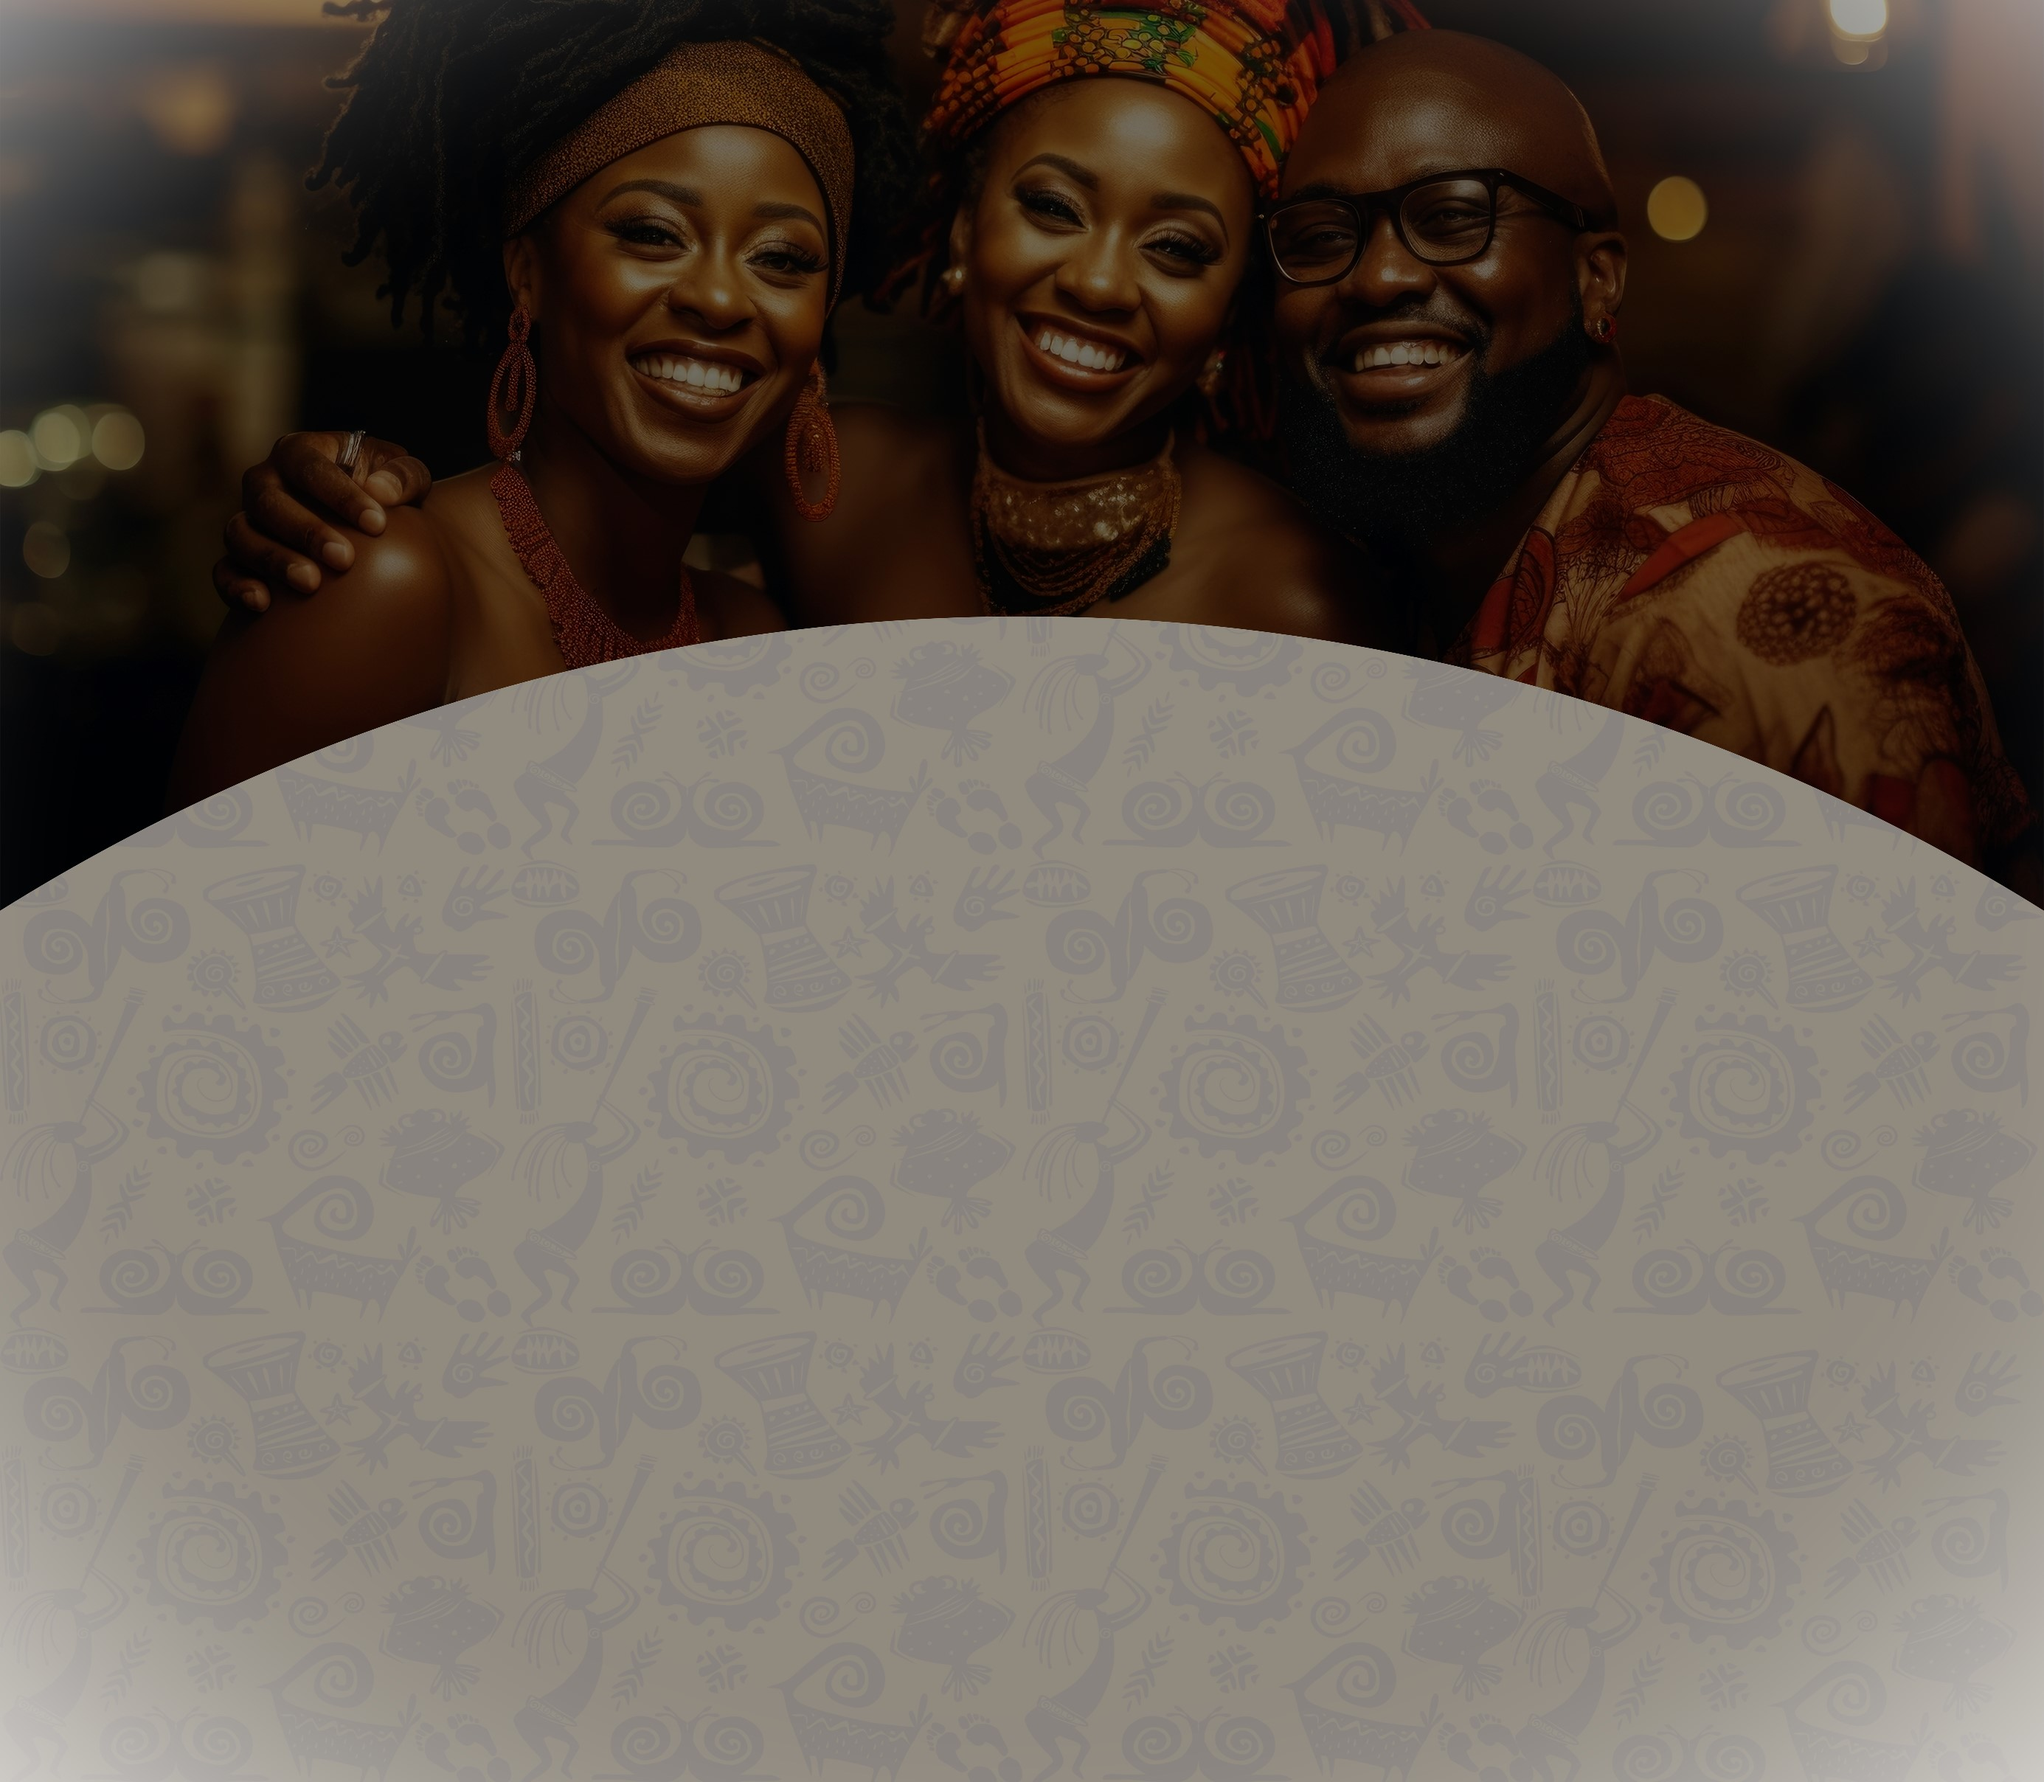
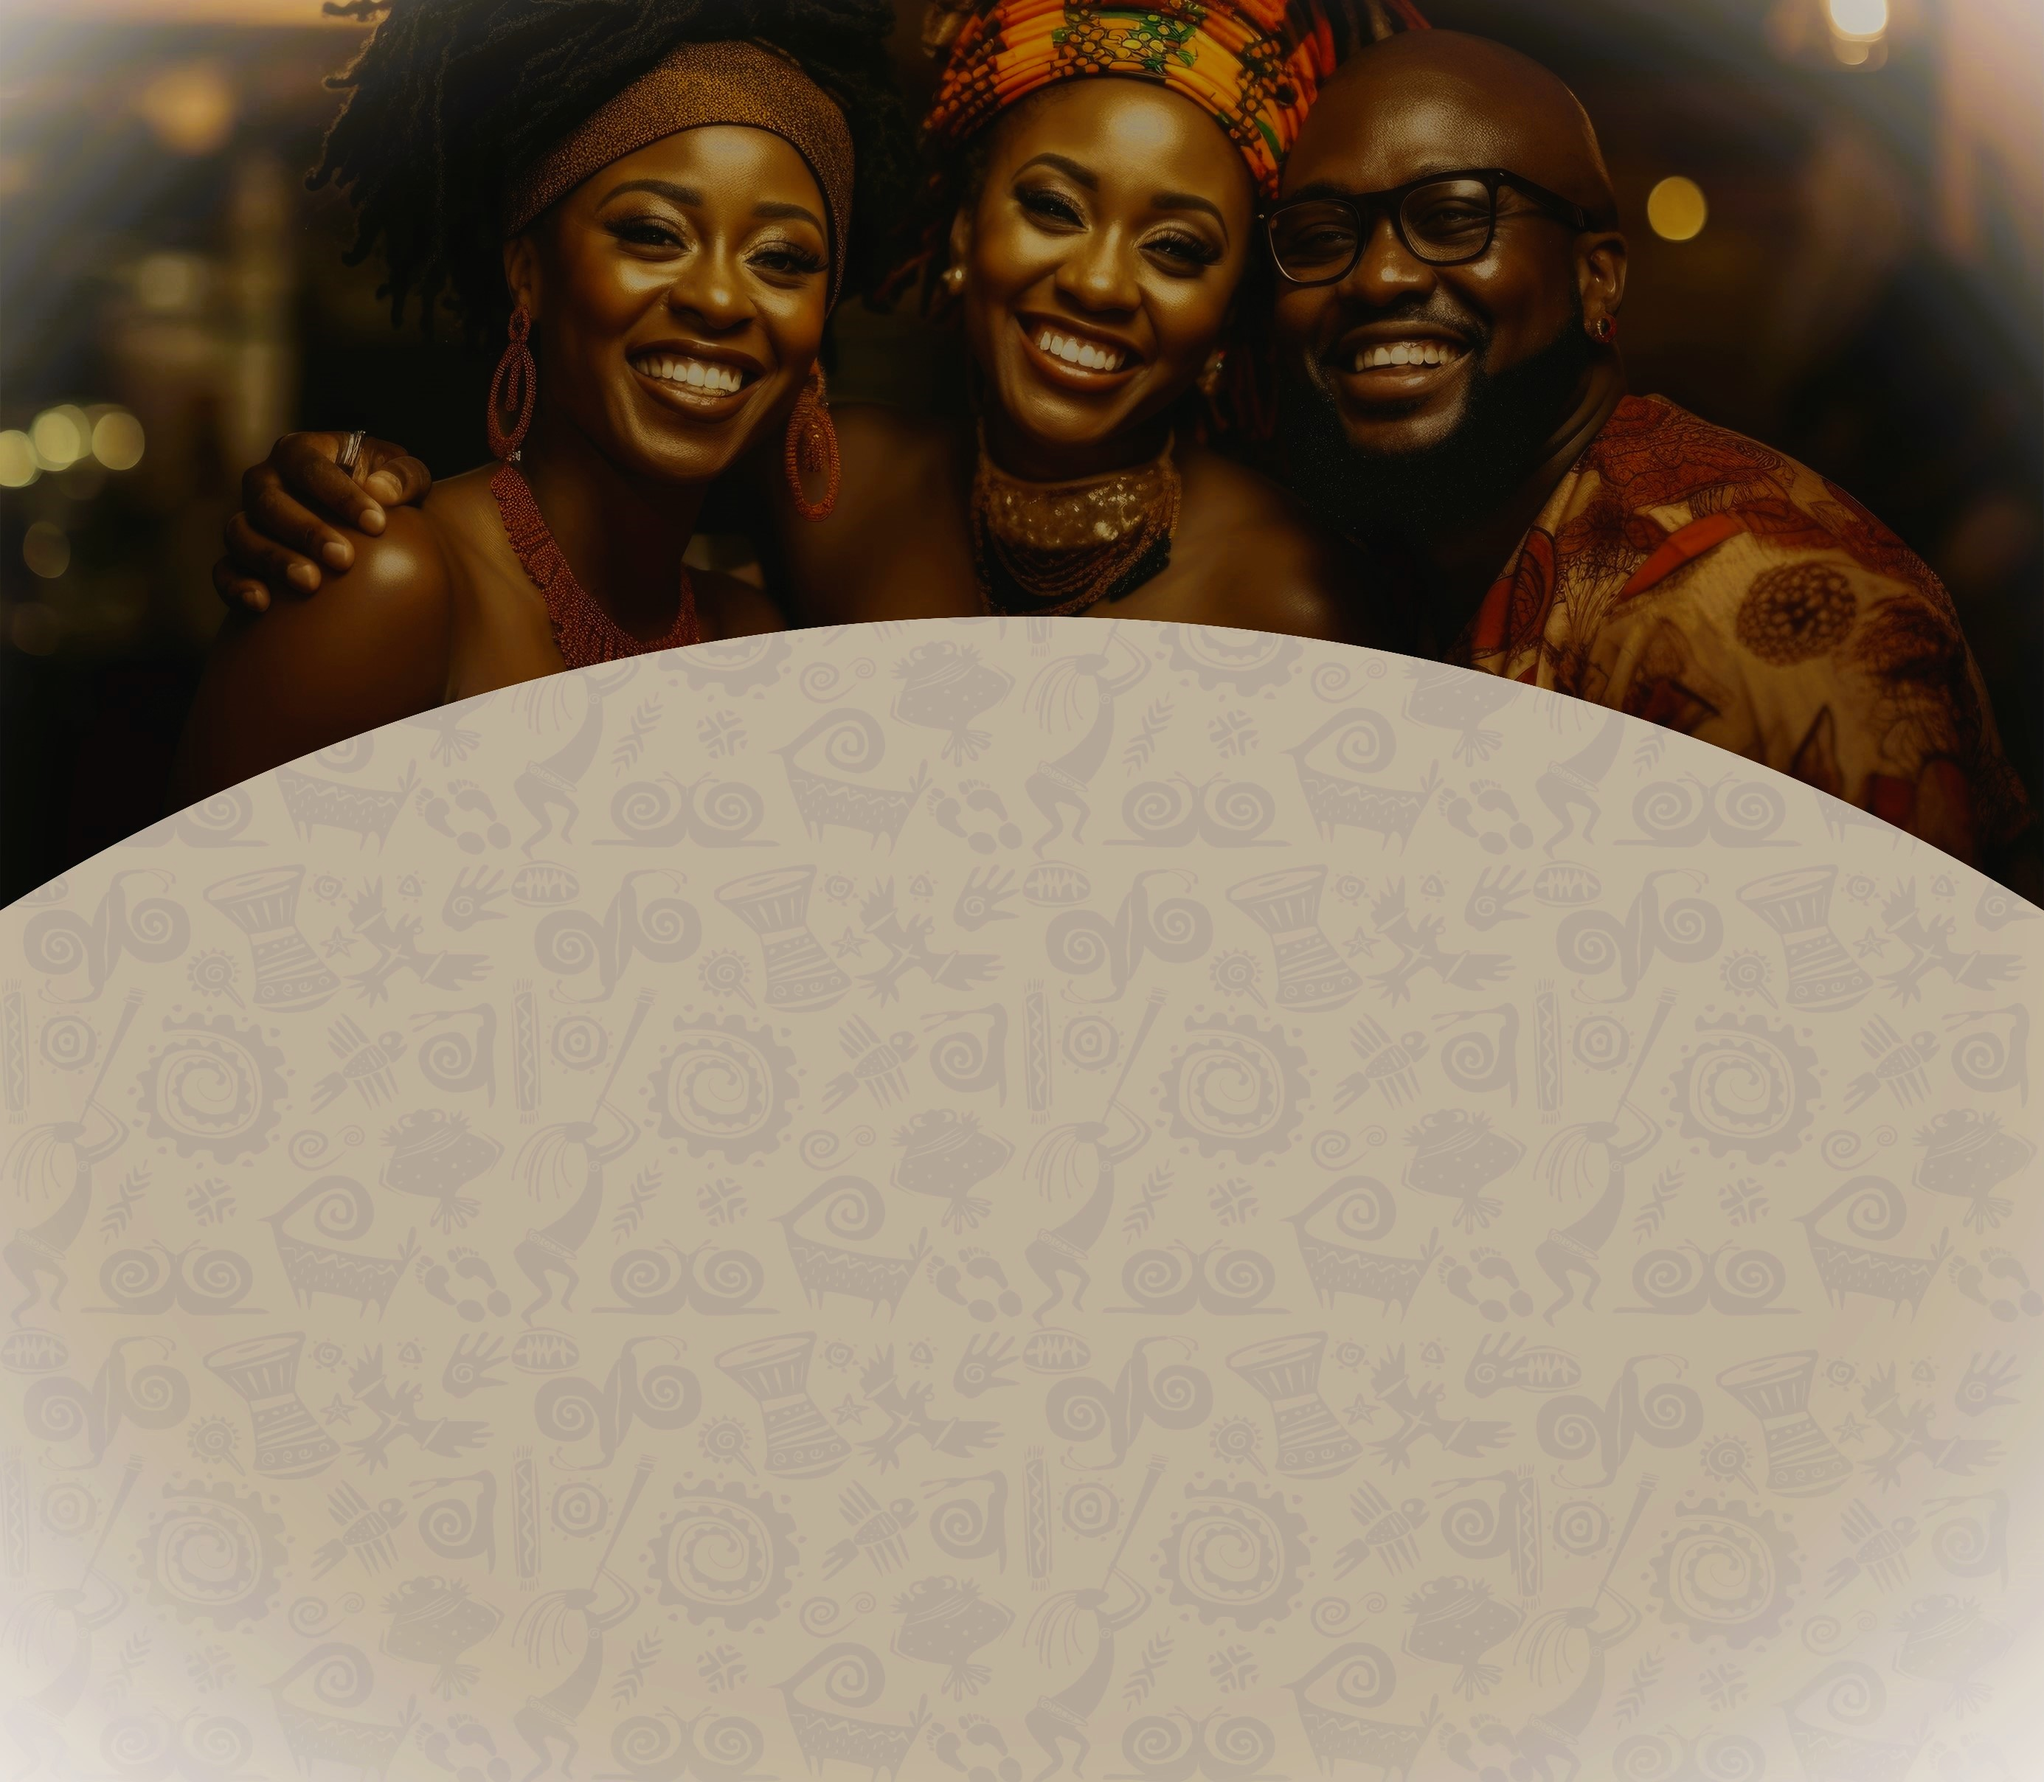
More Pages

diff --git a/index.html b/index.html
@@ -14,7 +14,7 @@
 <!-- Header Section -->
 
     <section id = "header">
-      <div class="header overlay">
+      <div class="headers overlay">
 
 
       <nav class="navbar navbar-expand-lg navbar-dark shadow-5-strong">
@@ -24,21 +24,21 @@
     </button>
     <a class="navbar-brand" href="#"><img src="img/CHAC.png" alt=""></a>
     <div class="collapse navbar-collapse " id="navbarTogglerDemo03">
-      <ul class="navbar-nav ms-auto mb-2 mb-lg-0">
+      <ul class="navbar-nav ms-auto mb-2 mb-lg-0" style="color: #000;">
         <li class="nav-item">
-          <a class="nav-link active" aria-current="page" href="#">About CHAC</a>
+          <a class="nav-link active" aria-current="page" href="#" style="color: #000;font-weight:bold;">About CHAC</a>
         </li>
         <li class="nav-item">
-          <a class="nav-link " aria-current="page" href="abstract.html">Abstracts</a>
+          <a class="nav-link " aria-current="page" href="abstract.html" style="color: #000;font-weight:bold;">Abstracts</a>
         </li>
         <li class="nav-item">
-          <a class="nav-link " aria-current="page" href="presenters.html">Presenters</a>
+          <a class="nav-link " aria-current="page" href="presenters.html"style="color: #000;font-weight:bold;">Presenters</a>
         </li>
         <li class="nav-item">
-          <a class="nav-link" aria-current="page" href="attendees.html">Attendees</a>
+          <a class="nav-link" aria-current="page" href="attendees.html" style="color: #000;font-weight:bold;">Attendees</a>
         </li>
         <li class="nav-item">
-          <a class="nav-link " aria-current="page" href="programs.html">Programs</a>
+          <a class="nav-link " aria-current="page" href="programs.html"style="color: #000;font-weight:bold;">Programs</a>
         </li>
       </ul>
       <form class="d-flex" role="search">
@@ -49,7 +49,7 @@
   </div>
 
 </nav>
-<img src="img/logo.png" class="header-logo" alt="">
+
       <!-- <h1 class="header-title">CHAC</h1> -->
       <h3 class="p-title">Climate & Health Africa Conference 2024</h3>
 
@@ -58,13 +58,13 @@
 
     </section>
 
-        <div class="alert alert-danger" role="alert">
+        <!-- <div class="alert alert-danger" role="alert" style="background-color: red;">
             <h4 class="alert-heading">ALERT:</h4>
             <p>Marketing and “market research” companies have been contacting CROI attendees. Disregard any correspondence from these groups. They are not affiliated with, or in any way approved by CROI.</p>
             <p>Note: as always CROI does not sell, rent, or share the names or contact details of attendees. Please report suspicious emails and websites to <a href="mailto:CROIinfo@iasusa.org">CROIinfo@iasusa.org</a>.</p>
             <hr>
             <p class="mb-0">Various misleading and fraudulent websites and emails offer “registration” and “hotel reservations” for CROI that need to be ignored. Traveller Point is one of them. All CROI information, including registration and hotel arrangements, is accessible through <a href="https://www.CROIconference.org" target="_blank">www.CROIconference.org</a> only.</p>
-        </div>
+        </div> -->
 
     <!-- Card Section -->
 
@@ -80,7 +80,7 @@
                   <h2>Abstract Submission</h2>
                   <p>Late-Breaking abstract submission is closed. Deadline was January 9, 2024</p>
 
-                  <button class="card-button btn btn-lg btn-block btn-outline-dark" type="button" style="background-color: #0C356A;color: #FFF0CE;">Register Now</button>
+                  <button class="card-button btn btn-lg btn-block btn-outline-dark" type="button" style="background-color: #E14D2A;color: #FFF0CE;">Register Now</button>
               </div>
             </div>
         </div>
@@ -93,7 +93,7 @@
                 <h2>CHAC Preliminary Program</h2>
                 <p>Updates are posted as they become available.</p>
 
-                <button class="card-button btn btn-lg btn-block btn-outline-dark" type="button" style="background-color: #0C356A;color: #FFF0CE;">View Program</button>
+                <button class="card-button btn btn-lg btn-block btn-outline-dark" type="button" style="background-color: #E14D2A;color: #FFF0CE;">View Program</button>
               </div>
           </div>
         </div>
@@ -106,7 +106,7 @@
                 <h2>Registration</h2>
                 <p>CHAC 2024 registration and application system is now open.</p>
 
-                <button class="card-button btn btn-lg btn-block btn-outline-dark" type="button" style="background-color: #0C356A;color: #FFF0CE;">Register Now</button>
+                <button class="card-button btn btn-lg btn-block btn-outline-dark" type="button" style="background-color: #E14D2A;color: #FFF0CE;">Register Now</button>
               </div>
           </div>
         </div>
@@ -125,7 +125,7 @@
     <div class="col-md-6 mb-3" style="padding-right: 5%;">
       <div class="card" style="max-width: 540px;">
         <div class="row g-0">
-          <div class="col-md-4" style="background-color: #0C356A;">
+          <div class="col-md-4" style="background-color: #E14D2A;">
             <i class="news-icon fa-solid fa-calendar-days fa-3x"></i>
           </div>
           <div class="col-md-8">
@@ -142,7 +142,7 @@
     <div class="col-md-6 mb-3" style="padding-right: 5%;">
       <div class="card" style="max-width: 540px;">
         <div class="row g-0">
-          <div class="col-md-4" style="background-color: #0C356A;">
+          <div class="col-md-4" style="background-color: #E14D2A;">
             <i class="news-icon fa-solid fa-calendar-days fa-3x"></i>
           </div>
           <div class="col-md-8">
@@ -159,7 +159,7 @@
     <div class="col-md-6 mb-3" style="padding-right: 5%;">
       <div class="card" style="max-width: 540px;">
         <div class="row g-0">
-          <div class="col-md-4" style="background-color: #0C356A;">
+          <div class="col-md-4" style="background-color: #E14D2A;">
             <i class="news-icon fa-solid fa-calendar-days fa-3x"></i>
           </div>
           <div class="col-md-8">
@@ -176,7 +176,7 @@
     <div class="col-md-6 mb-3" style="padding-right: 5%;">
       <div class="card" style="">
         <div class="row g-0">
-          <div class="col-md-4" style="background-color: #0C356A;">
+          <div class="col-md-4" style="background-color: #E14D2A;">
             <i class="news-icon fa-solid fa-calendar-days fa-3x"></i>
           </div>
           <div class="col-md-8">

diff --git a/abstract.html b/abstract.html
@@ -111,13 +111,20 @@ Permission Requests: Permission to replicate or reproduce any part of a CROI abs
 
   <!-- Copyright -->
   <div class="text-center p-3" style="background-color: rgba(0, 0, 0, 0.2)">
-    © 2024 Copyright:
-    <a class="text-white" href="">CHAC</a>
+    
+    <a class="text-white" href=""></a>
   </div>
   <!-- Copyright -->
 
 </footer>
 <!-- Footer -->
+<section id = "footer">
+  <img class="press-logo" src="img/a1.png" alt="tc-logo">
+  <img class="press-logo" src="img/a.png" alt="tnw-logo">
+  <img class="press-logo" src="img/a2.png" alt="biz-insider-logo">
+  <img class="press-logo" src="img/a3.png" alt="mashable-logo">
+<p class="footer">© Copyright CeSHHAR 2024</p>
+</section>
     <script src="https://cdn.jsdelivr.net/npm/bootstrap@5.3.3/dist/js/bootstrap.bundle.min.js" integrity="sha384-YvpcrYf0tY3lHB60NNkmXc5s9fDVZLESaAA55NDzOxhy9GkcIdslK1eN7N6jIeHz" crossorigin="anonymous"></script>
 
   </body>

diff --git a/attendees.html b/attendees.html
@@ -111,13 +111,20 @@ Permission Requests: Permission to replicate or reproduce any part of a CROI abs
 
   <!-- Copyright -->
   <div class="text-center p-3" style="background-color: rgba(0, 0, 0, 0.2)">
-    © 2024 Copyright:
-    <a class="text-white" href="">CHAC</a>
+
+    <a class="text-white" href=""></a>
   </div>
   <!-- Copyright -->
 
 </footer>
 <!-- Footer -->
+<section id = "footer">
+  <img class="press-logo" src="img/a1.png" alt="tc-logo">
+  <img class="press-logo" src="img/a.png" alt="tnw-logo">
+  <img class="press-logo" src="img/a2.png" alt="biz-insider-logo">
+  <img class="press-logo" src="img/a3.png" alt="mashable-logo">
+<p class="footer">© Copyright CeSHHAR 2024</p>
+</section>
     <script src="https://cdn.jsdelivr.net/npm/bootstrap@5.3.3/dist/js/bootstrap.bundle.min.js" integrity="sha384-YvpcrYf0tY3lHB60NNkmXc5s9fDVZLESaAA55NDzOxhy9GkcIdslK1eN7N6jIeHz" crossorigin="anonymous"></script>
 
   </body>

diff --git a/presenters.html b/presenters.html
@@ -111,13 +111,20 @@ Permission Requests: Permission to replicate or reproduce any part of a CROI abs
 
   <!-- Copyright -->
   <div class="text-center p-3" style="background-color: rgba(0, 0, 0, 0.2)">
-    © 2024 Copyright:
-    <a class="text-white" href="">CHAC</a>
+
+    <a class="text-white" href=""></a>
   </div>
   <!-- Copyright -->
 
 </footer>
 <!-- Footer -->
+<section id = "footer">
+  <img class="press-logo" src="img/a1.png" alt="tc-logo">
+  <img class="press-logo" src="img/a.png" alt="tnw-logo">
+  <img class="press-logo" src="img/a2.png" alt="biz-insider-logo">
+  <img class="press-logo" src="img/a3.png" alt="mashable-logo">
+<p class="footer">© Copyright CeSHHAR 2024</p>
+</section>
     <script src="https://cdn.jsdelivr.net/npm/bootstrap@5.3.3/dist/js/bootstrap.bundle.min.js" integrity="sha384-YvpcrYf0tY3lHB60NNkmXc5s9fDVZLESaAA55NDzOxhy9GkcIdslK1eN7N6jIeHz" crossorigin="anonymous"></script>
 
   </body>

diff --git a/programs.html b/programs.html
@@ -111,13 +111,20 @@ Permission Requests: Permission to replicate or reproduce any part of a CROI abs
 
   <!-- Copyright -->
   <div class="text-center p-3" style="background-color: rgba(0, 0, 0, 0.2)">
-    © 2024 Copyright:
-    <a class="text-white" href="">CHAC</a>
+
+    <a class="text-white" href=""></a>
   </div>
   <!-- Copyright -->
 
 </footer>
 <!-- Footer -->
+<section id = "footer">
+  <img class="press-logo" src="img/a1.png" alt="tc-logo">
+  <img class="press-logo" src="img/a.png" alt="tnw-logo">
+  <img class="press-logo" src="img/a2.png" alt="biz-insider-logo">
+  <img class="press-logo" src="img/a3.png" alt="mashable-logo">
+<p class="footer">© Copyright CeSHHAR 2024</p>
+</section>
     <script src="https://cdn.jsdelivr.net/npm/bootstrap@5.3.3/dist/js/bootstrap.bundle.min.js" integrity="sha384-YvpcrYf0tY3lHB60NNkmXc5s9fDVZLESaAA55NDzOxhy9GkcIdslK1eN7N6jIeHz" crossorigin="anonymous"></script>
 
   </body>

diff --git a/styles.css b/styles.css
@@ -13,10 +13,10 @@
   background-position: center;
   text-align: center;
   padding: 3%;}
-  
+
 #card{
   padding: 5%;
-  background-image: url("img/card-image.png");
+  background-image: url("img/afr.jpg");
   background-size: cover;
   background-repeat: no-repeat;
   background-position: center;
@@ -61,10 +61,11 @@
 }
 
 .p-title{
-  margin-top: 3%;
+  margin-top: 35%;
   margin-bottom: 5%;
-  color: #fff;
+  color: #000;
 }
+
 
 .btn-warning{
   font-weight: bold;
@@ -112,7 +113,7 @@
     }
 
   .icon{
-    color: #0174BE;
+    color: #FFB000;
   }
 
   .news-icon{
